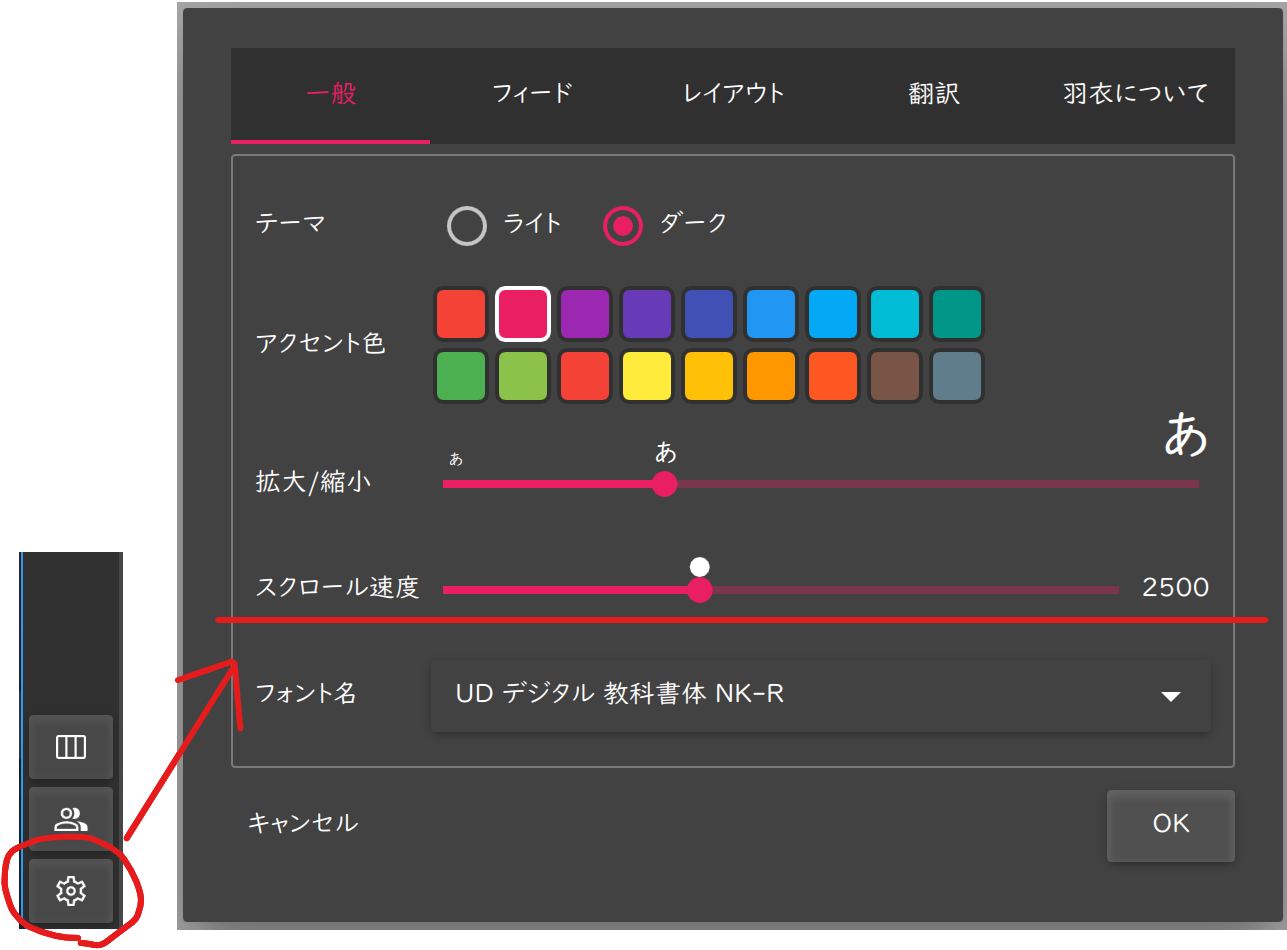
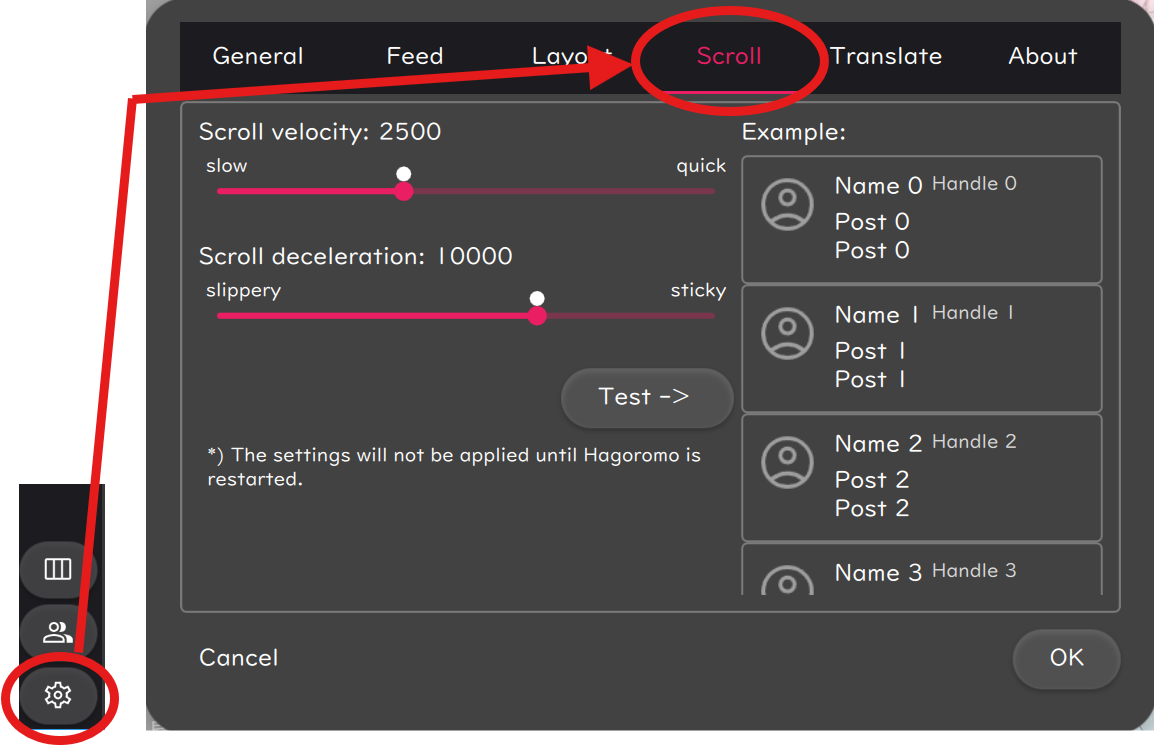
スクロール速度と減速設定の説明を追加し、テストボタンの機能を明記

Changed region(s): [[0.0, 0.0, 1.0, 1.0]]

diff --git a/web/content/docs/getting-started.ja.md b/web/content/docs/getting-started.ja.md
@@ -79,7 +79,20 @@ Macの場合は[開発元が未確認のMacアプリを開く](https://support.a
 
 {{< figure src="../images/scroll_velocity.ja.png" width="90%" >}}
 
-- 速すぎる場合：左へ調節
-- 遅すぎる場合：右へ調節
+- スクロール速度
+  - マウスのホイールやタッチパッドなどでフリックしたときの初速を設定します。
+    - 速い（右）へ調節：遅すぎる場合
+    - 遅い（左）へ調節：速すぎる場合
+  - 初期値：2500
+- スクロール減速
+  - 動き出した後の止まりやすさを設定します。
+    - 高（右）へ調節：すぐに止まる
+    - 低（左）へ調節：たくさん滑る
+  - 初期値：10000
+- Testボタン
+  - スライドバーを調整したら、このボタンを押してサンプルリストを更新します。
+  - スライドバーを調整しただけでは反映されません。
 
-初期値は2500です。
+**※注意**
+
+調整ができたら設定ダイアログの`OK`ボタンを押してから羽衣を再起動してください。

diff --git a/web/content/docs/getting-started.en.md b/web/content/docs/getting-started.en.md
@@ -84,3 +84,21 @@ The scrolling velocity of the columns may be too fast or too slow for your envir
 - If too slow: Adjust to the right
 
 The default value is 2500.
+
+- Scroll velocity
+  - Sets the initial speed when flicking with the mouse wheel or touchpad, etc.
+    - Adjust to the right (faster): If it is too slow
+    - Adjust to the left (slower): If it is too fast
+  - Default: 2500
+- Scroll deceleration
+  - Sets how easily the scroll stops after it has started moving.
+    - Adjust to the right (higher): Stops immediately
+    - Adjust to low (left): Skips a lot
+  - Default: 10000
+- Test button
+  - After adjusting the slide bar, press this button to refresh the sample list.
+  - Adjusting the slide bar alone will not have any effect.
+
+**Note**
+
+After making adjustments, press the `OK` button in the settings dialog and then restart Hagoromo.
